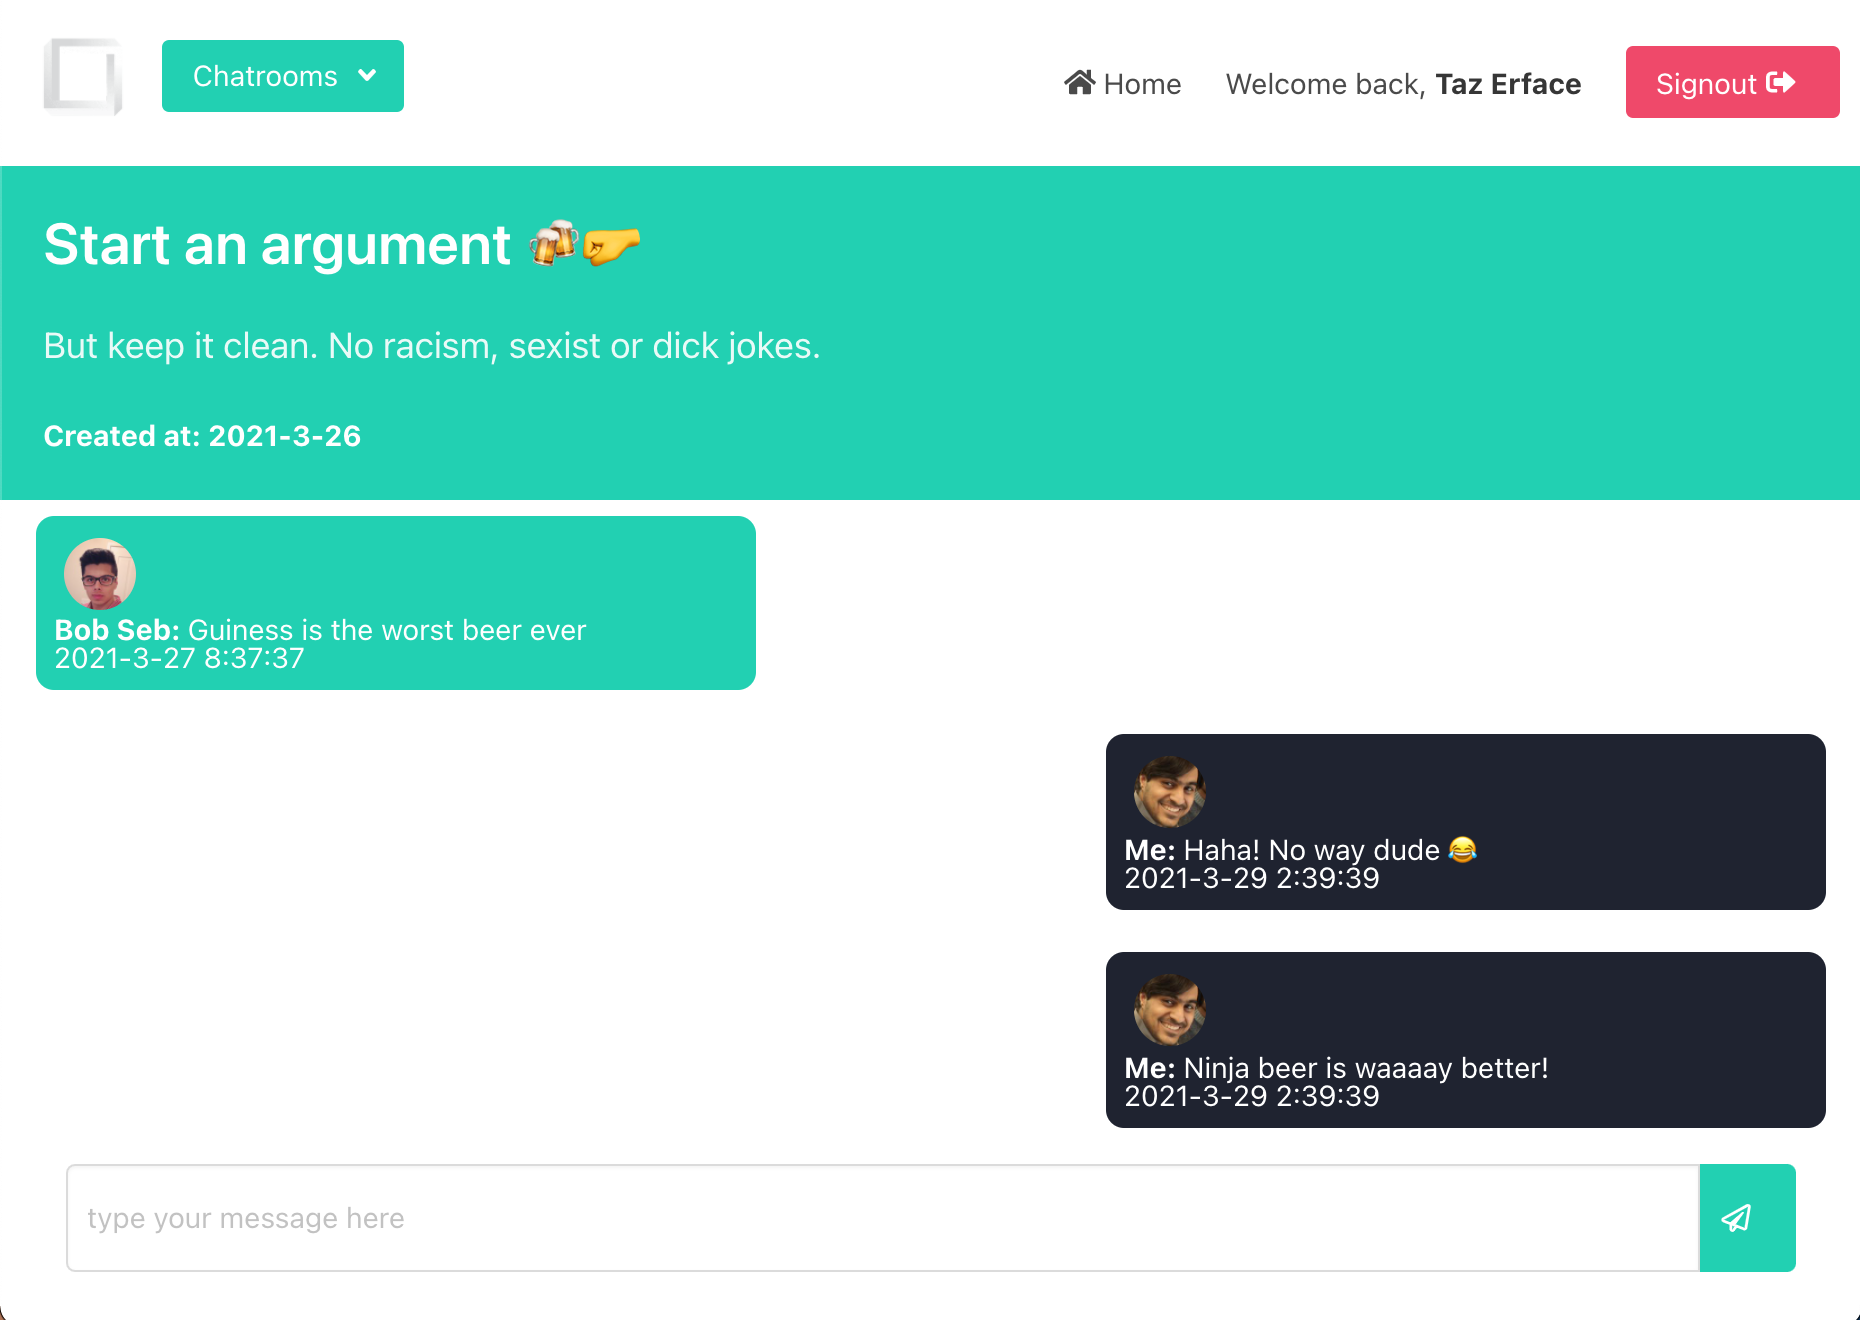
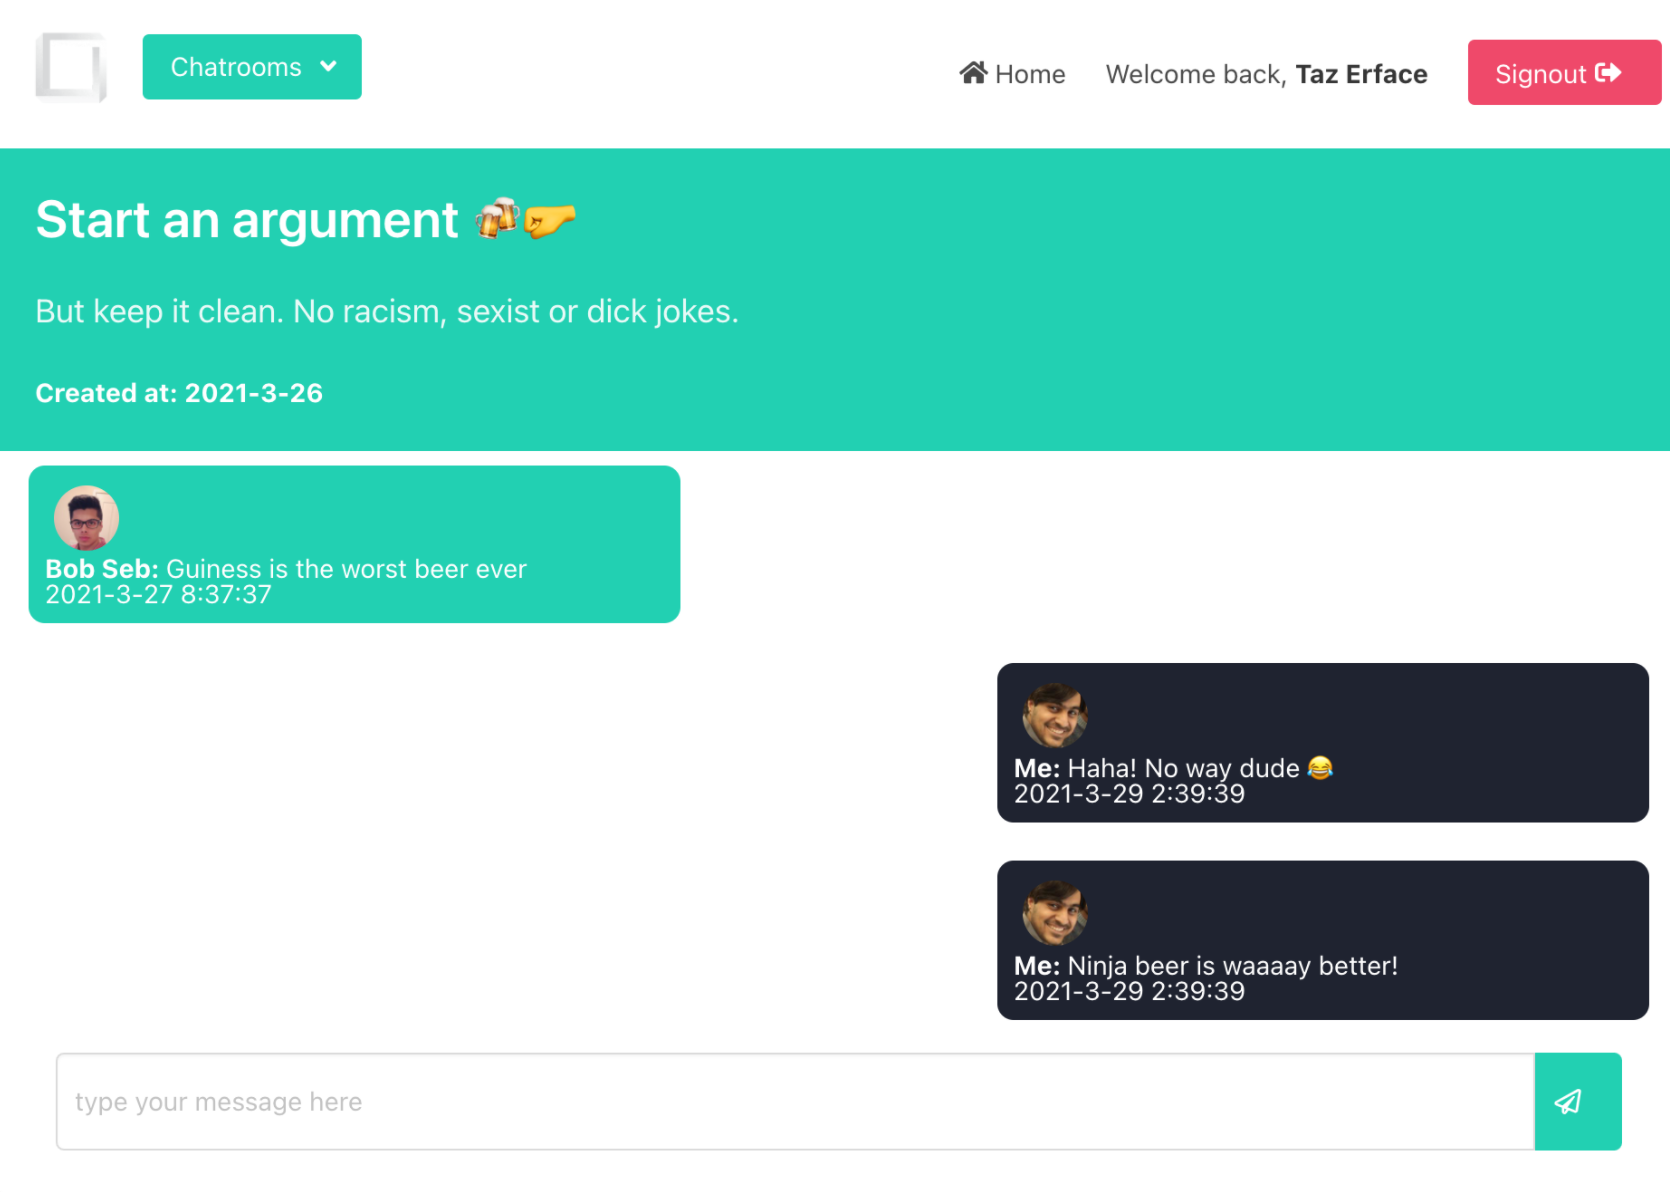
fix: img

diff --git a/src/components/Landing.tsx b/src/components/Landing.tsx
@@ -86,7 +86,7 @@ export const Landing = () => {
           is-7-widescreen is-offset-1-widescreen
           is-7-fullhd is-offset-1-fullhd"
             >
-              <figure className="image">
+              <figure className="image sample-chat-window">
                 <img src={ChatScreenshot} alt="testing" />
               </figure>
             </div>

diff --git a/src/assets/css/landing.css b/src/assets/css/landing.css
@@ -29,3 +29,7 @@
 .landing-container-item {
   padding-bottom: 80px !important;
 }
+
+.sample-chat-window {
+  box-shadow: 0 0 2rem rgb(0 0 0 / 10%);
+}
